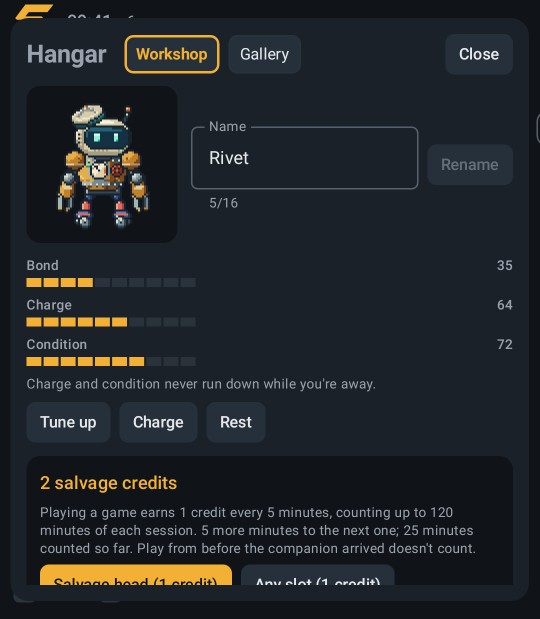
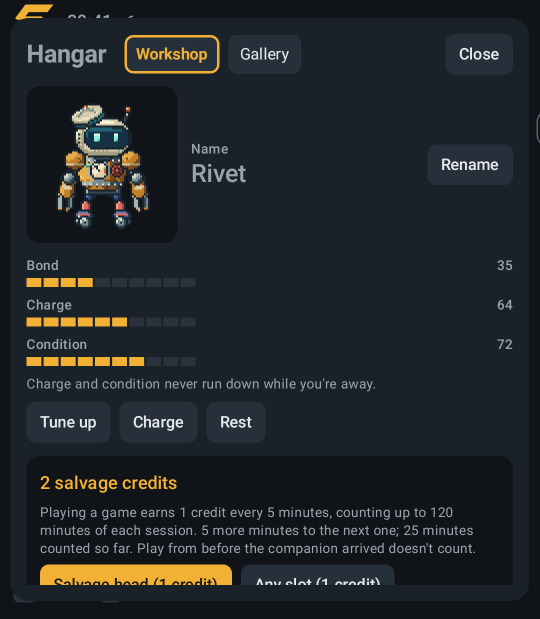
Require explicit Rename before editing the companion name

Changed region(s): [[0.3556, 0.1842, 0.9185, 0.3376]]

diff --git a/mecha/src/main/java/io/github/esko997/sortie/mecha/ui/Hangar.kt b/mecha/src/main/java/io/github/esko997/sortie/mecha/ui/Hangar.kt
@@ -41,7 +41,9 @@ import androidx.compose.ui.focus.FocusRequester
 import androidx.compose.ui.focus.focusRequester
 import androidx.compose.ui.focus.onFocusChanged
 import androidx.compose.ui.input.InputMode
+import androidx.compose.ui.platform.LocalFocusManager
 import androidx.compose.ui.platform.LocalInputModeManager
+import androidx.compose.ui.platform.LocalSoftwareKeyboardController
 import androidx.compose.ui.semantics.contentDescription
 import androidx.compose.ui.semantics.semantics
 import androidx.compose.ui.semantics.stateDescription
@@ -251,22 +253,62 @@ private fun Bay(store: MechaStore, view: MechaView, state: MechaState, compact: 
 
 @Composable
 private fun Rename(store: MechaStore, state: MechaState) {
+    var editing by rememberSaveable { mutableStateOf(false) }
     var draft by rememberSaveable(state.name) { mutableStateOf(state.name) }
     val problem = if (draft.trim() == state.name) null else mechaNameProblem(draft.trim())
-    val canSave = draft.trim() != state.name && problem == null
-    Row(verticalAlignment = Alignment.CenterVertically) {
-        OutlinedTextField(
-            value = draft,
-            onValueChange = { draft = it.take(MECHA_NAME_MAX + 4) },
-            label = { Text("Name") },
-            singleLine = true,
-            isError = problem != null,
-            supportingText = { Text(problem ?: "${draft.trim().length}/$MECHA_NAME_MAX") },
-            keyboardOptions = KeyboardOptions(imeAction = ImeAction.Done),
-            keyboardActions = KeyboardActions(onDone = { if (canSave) store.rename(draft.trim()) }),
-            modifier = Modifier.weight(1f)
-        )
-        MechaButton("Rename", onClick = { store.rename(draft.trim()) }, enabled = canSave, modifier = Modifier.padding(start = 8.dp))
+    val field = remember { FocusRequester() }
+    val action = remember { FocusRequester() }
+    val focus = LocalFocusManager.current
+    val keyboard = LocalSoftwareKeyboardController.current
+    val inputMode = LocalInputModeManager.current
+    val finish = {
+        keyboard?.hide()
+        focus.clearFocus()
+        editing = false
+        if (inputMode.inputMode == InputMode.Keyboard) action.requestFocus()
+    }
+    val save = {
+        if (problem == null) {
+            if (draft.trim() != state.name) store.rename(draft.trim())
+            finish()
+        }
+    }
+    LaunchedEffect(editing) {
+        if (editing) field.requestFocus()
+    }
+    Column(verticalArrangement = Arrangement.spacedBy(8.dp)) {
+        Row(verticalAlignment = Alignment.CenterVertically, horizontalArrangement = Arrangement.spacedBy(8.dp)) {
+            if (editing) {
+                OutlinedTextField(
+                    value = draft,
+                    onValueChange = { draft = it.take(MECHA_NAME_MAX + 4) },
+                    label = { Text("Name") },
+                    singleLine = true,
+                    isError = problem != null,
+                    supportingText = { Text(problem ?: "${draft.trim().length}/$MECHA_NAME_MAX") },
+                    keyboardOptions = KeyboardOptions(imeAction = ImeAction.Done),
+                    keyboardActions = KeyboardActions(onDone = { save() }),
+                    modifier = Modifier.weight(1f).focusRequester(field)
+                )
+            } else {
+                Column(Modifier.weight(1f)) {
+                    Text("Name", style = MaterialTheme.typography.labelMedium, color = Muted)
+                    Text(state.name, style = MaterialTheme.typography.titleLarge)
+                }
+            }
+            MechaButton(
+                if (editing) "Save" else "Rename",
+                onClick = { if (editing) save() else editing = true },
+                enabled = !editing || problem == null,
+                modifier = Modifier.focusRequester(action)
+            )
+        }
+        if (editing) {
+            MechaButton("Cancel", onClick = {
+                draft = state.name
+                finish()
+            })
+        }
     }
 }
 

diff --git a/app/src/testDebug/java/io/github/esko997/sortie/ui/HomeControllerTest.kt b/app/src/testDebug/java/io/github/esko997/sortie/ui/HomeControllerTest.kt
@@ -1,14 +1,20 @@
 package io.github.esko997.sortie.ui
 
 import androidx.compose.ui.geometry.Offset
+import androidx.compose.ui.test.assertCountEquals
 import androidx.compose.ui.test.assertIsDisplayed
+import androidx.compose.ui.test.assertIsNotEnabled
 import androidx.compose.ui.test.click
+import androidx.compose.ui.test.hasSetTextAction
 import androidx.compose.ui.test.junit4.createEmptyComposeRule
 import androidx.compose.ui.test.onAllNodesWithContentDescription
 import androidx.compose.ui.test.onAllNodesWithText
 import androidx.compose.ui.test.onNodeWithContentDescription
 import androidx.compose.ui.test.onNodeWithText
 import androidx.compose.ui.test.performClick
+import androidx.compose.ui.test.performImeAction
+import androidx.compose.ui.test.performScrollTo
+import androidx.compose.ui.test.performTextReplacement
 import androidx.compose.ui.test.performTouchInput
 import androidx.compose.ui.test.swipe
 import io.github.esko997.sortie.SortieApp
@@ -228,5 +234,32 @@ class HomeControllerTest {
         compose.mainClock.advanceTimeBy(500) // the button takes the focus back once the Hangar's window is gone
         compose.waitForIdle()
         assertEquals("Extras", pad.focusedLabel())
+    }
+
+    @Test
+    fun companionNameOnlyEditsAfterRenameAndCancelDoesNotSave() {
+        awaitHome()
+        openExtras()
+        compose.onNodeWithText("Hangar").performClick()
+        compose.waitUntil(5_000) { compose.onAllNodesWithText("Workshop").fetchSemanticsNodes().isNotEmpty() }
+        val store = (sortie.activity.application as SortieApp).graph.mecha
+        val original = store.view.value.state!!.name
+        compose.onAllNodes(hasSetTextAction()).assertCountEquals(0)
+        compose.onNodeWithText(original).performScrollTo().performTouchInput { click() }
+        compose.onAllNodes(hasSetTextAction()).assertCountEquals(0)
+
+        compose.onNodeWithText("Rename").performScrollTo().performClick()
+        compose.onNode(hasSetTextAction()).performTextReplacement("Unsaved name")
+        compose.onNodeWithText("Cancel").performScrollTo().performClick()
+        compose.onAllNodes(hasSetTextAction()).assertCountEquals(0)
+        assertEquals(original, store.view.value.state!!.name)
+
+        compose.onNodeWithText("Rename").performScrollTo().performClick()
+        compose.onNode(hasSetTextAction()).performTextReplacement(" ")
+        compose.onNodeWithText("Save").assertIsNotEnabled()
+        compose.onNode(hasSetTextAction()).performTextReplacement("  Rivet II  ")
+        compose.onNode(hasSetTextAction()).performImeAction()
+        compose.waitUntil(5_000) { store.view.value.state?.name == "Rivet II" }
+        compose.onAllNodes(hasSetTextAction()).assertCountEquals(0)
     }
 }

diff --git a/CHANGELOG.md b/CHANGELOG.md
@@ -1,6 +1,8 @@
 # Changelog
 
 ## Unreleased
+- The Hangar shows the companion's name as plain text until **Rename** is pressed. **Save** (or the keyboard's Done)
+  commits a valid name and closes the keyboard; **Cancel** discards edits. Browsing or tapping the name cannot open an editor.
 - Refresh the README, website, onboarding, manual and format references for Quiet Home, Tonight, bookmarks and their
   archive/backup limits, bundled guide precedence, Rivet gestures and current switcher/reader controls. Add native Nova
   beta 2136 captures of Home, Tonight, game details and the bookmark editor; keep older setup images clearly identified.
